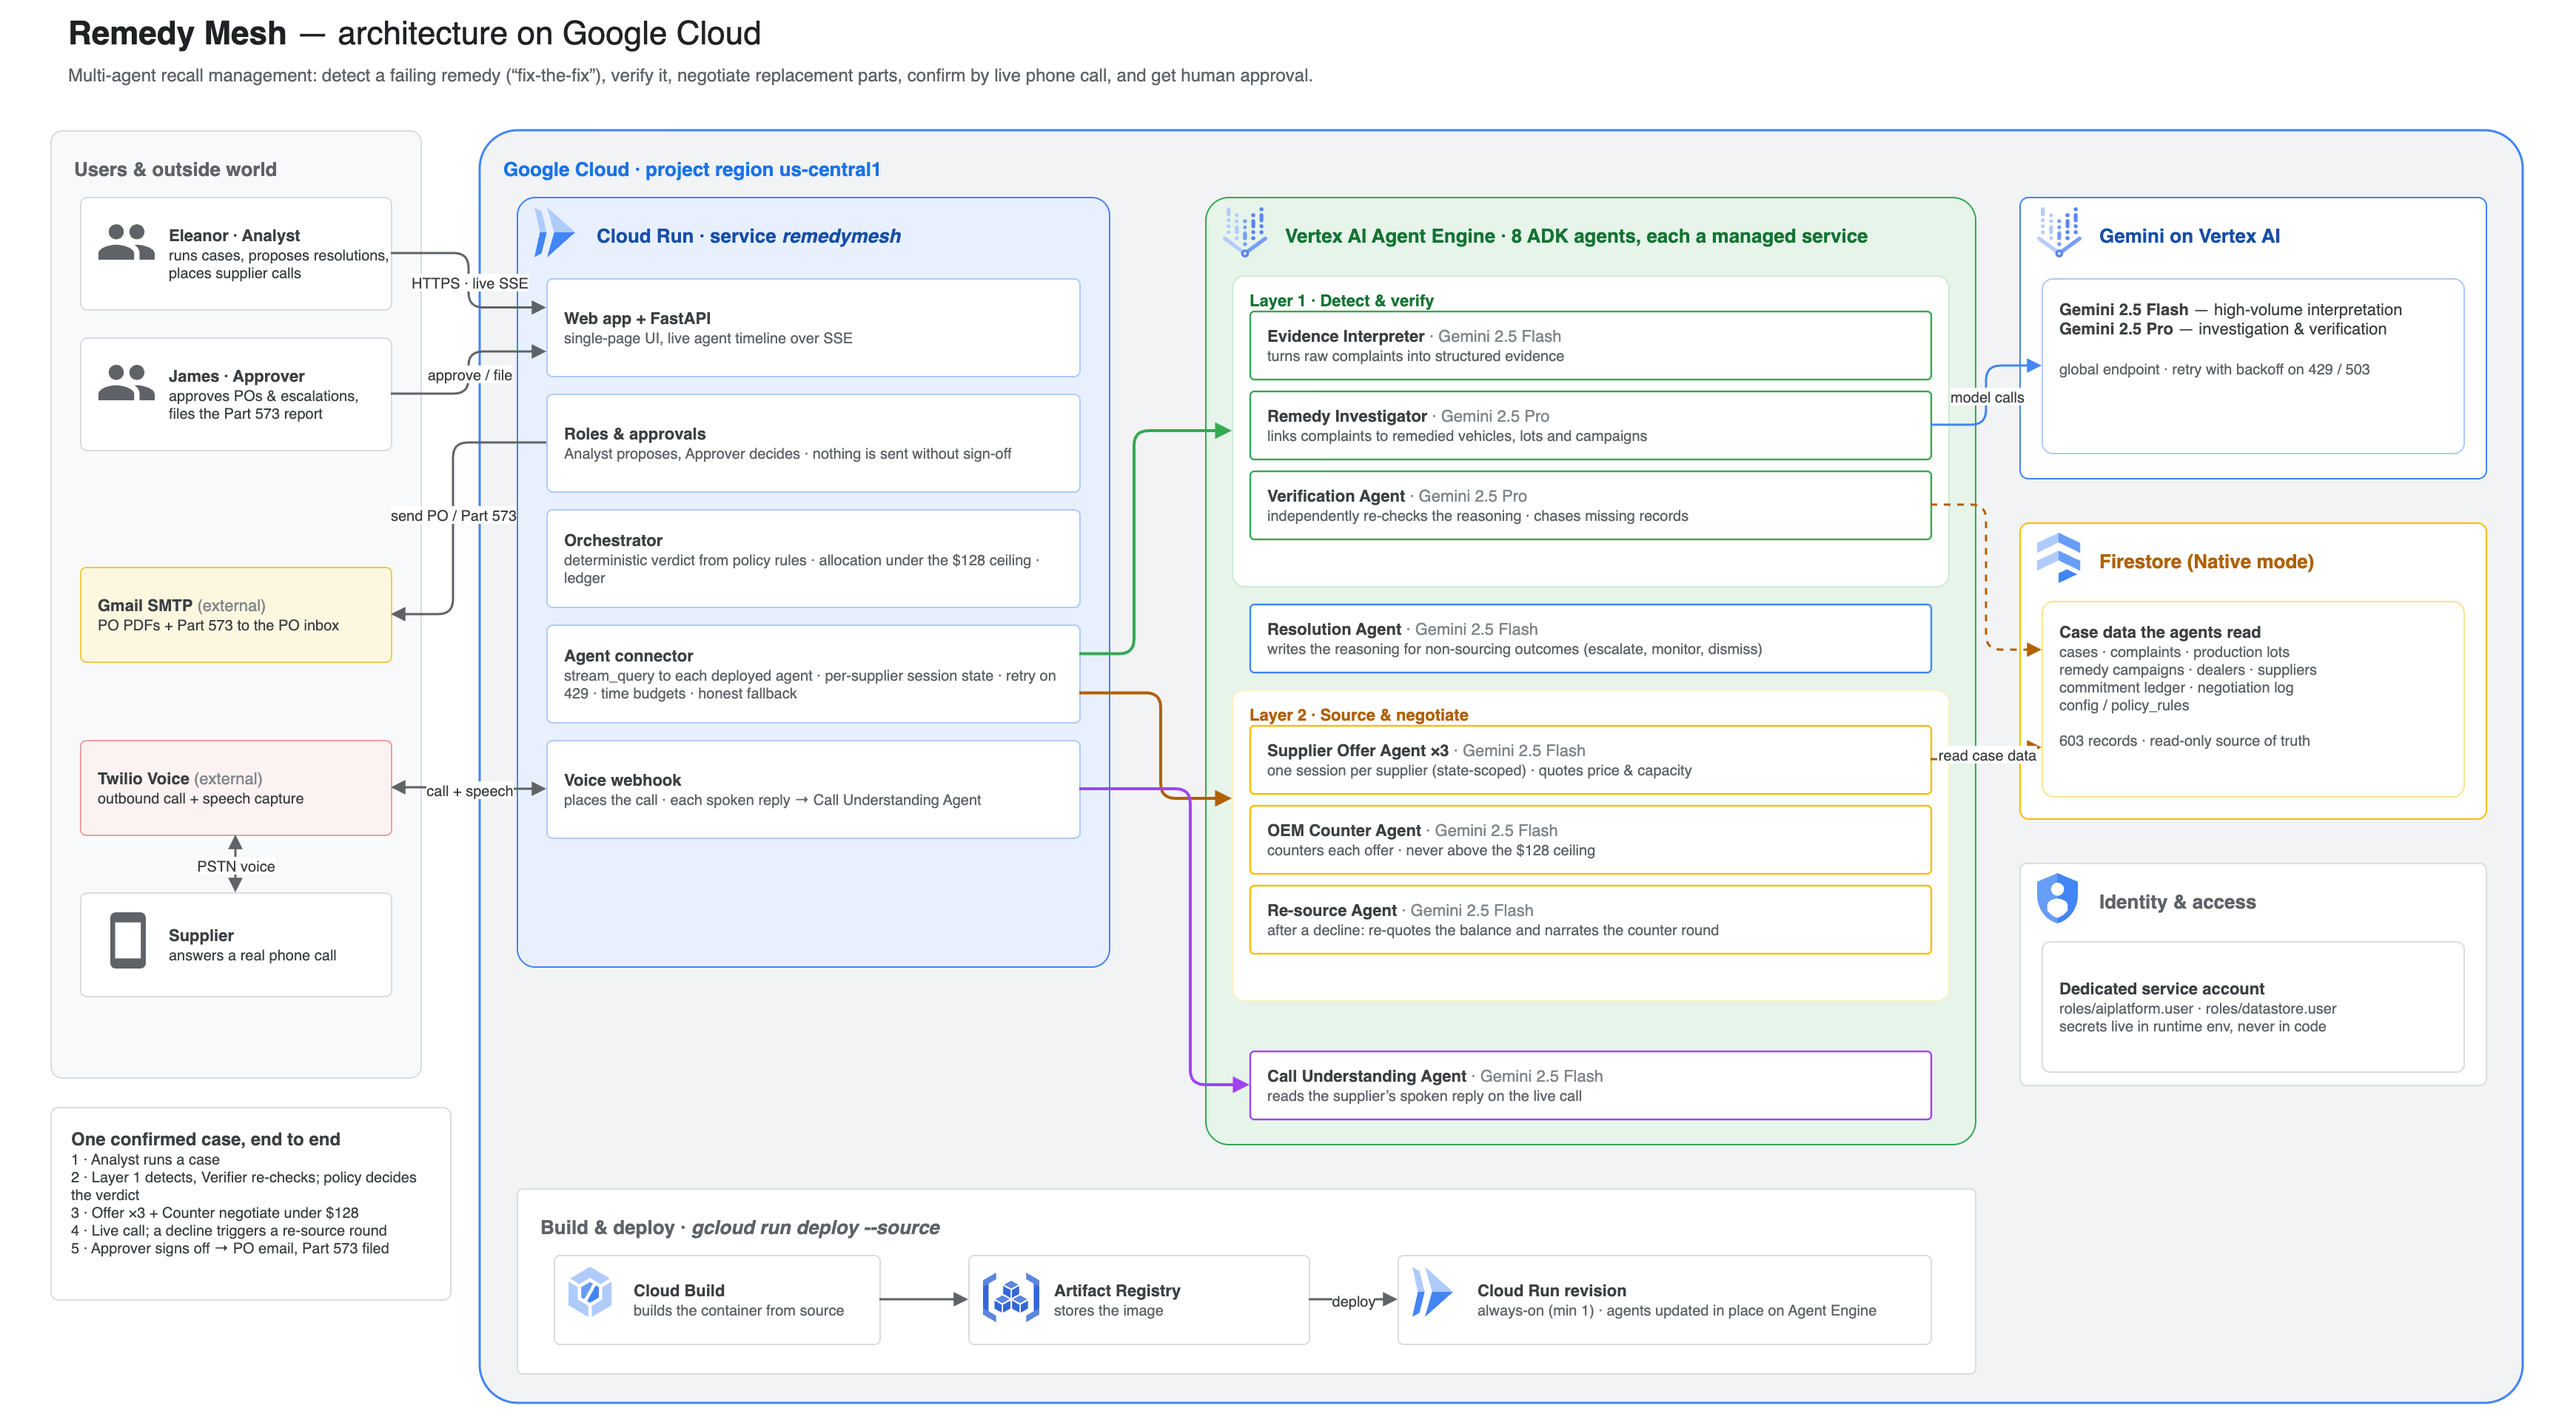
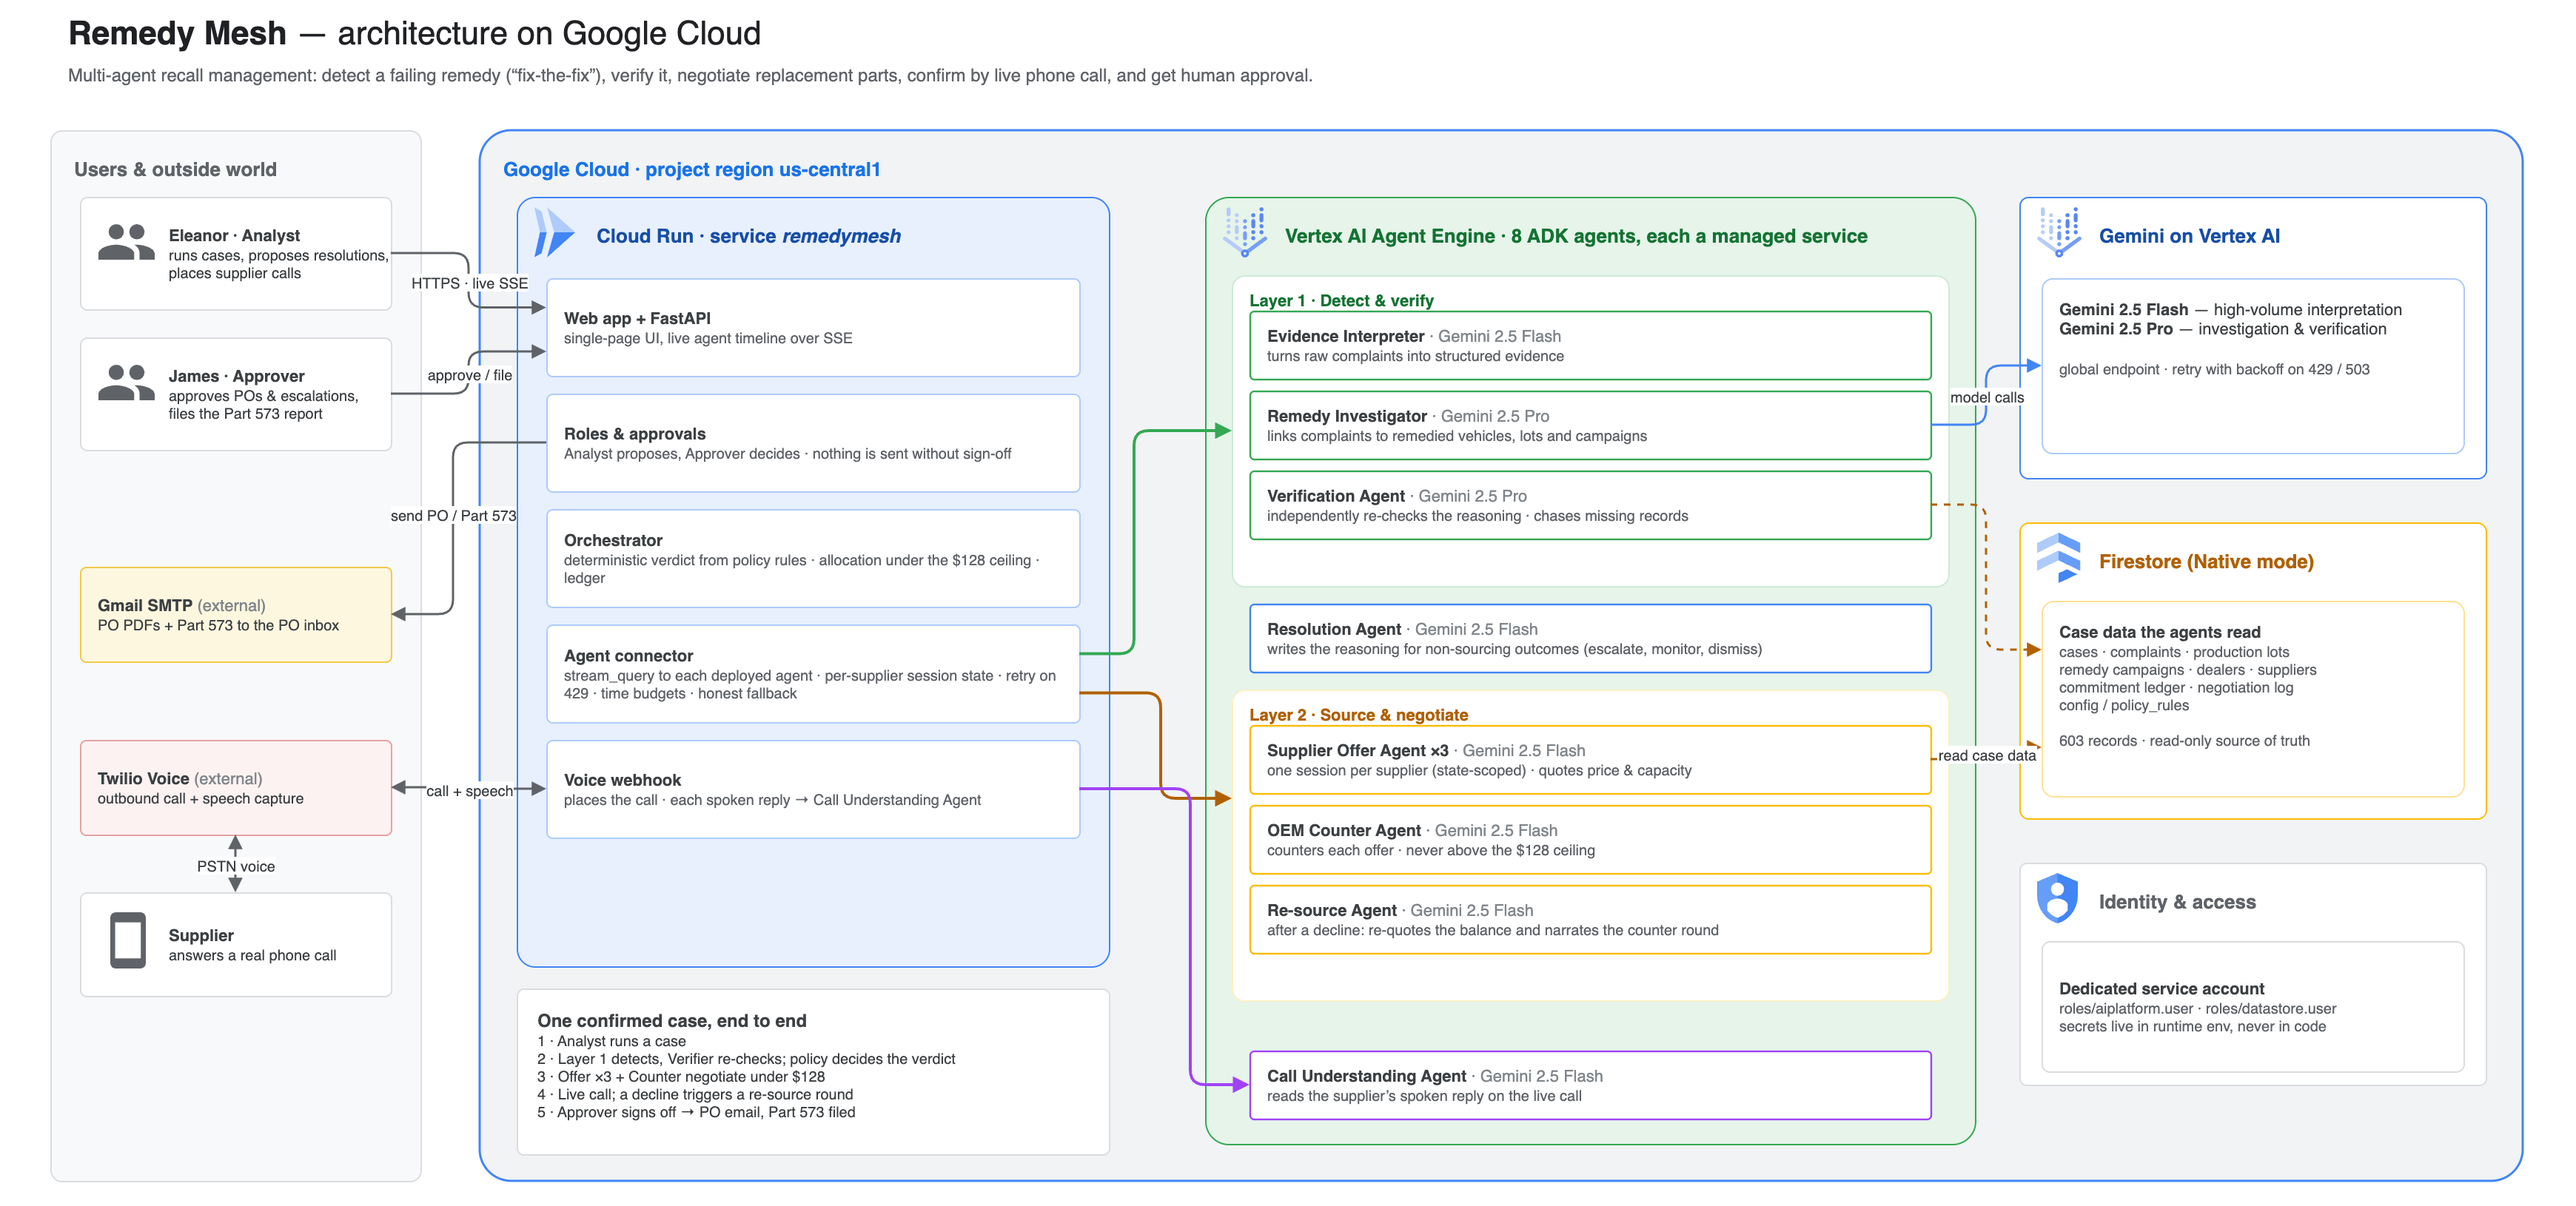
Drop the build-and-deploy strip from the detailed architecture diagram

diff --git a/HYBRID_LOG.md b/HYBRID_LOG.md
@@ -112,7 +112,7 @@ service `remedy-mesh-hybrid`, which was then replaced by `remedymesh` (see 3.16)
     deployment with a Gemini mark, Firestore as the data source, Twilio and Gmail as external
     services. For slides and the video.
   - `docs/remedy-mesh-architecture.drawio` / `remedy-mesh-architecture-gcp.png`: detailed view
-    (every Cloud Run component, all 8 agents with their models, IAM, the build and deploy path,
+    (every Cloud Run component, all 8 agents with their models, IAM,
     the five-step case flow). For the README.
   - Connections are labelled with what is really used: the Vertex AI SDK (`stream_query`). No A2A
     or MCP is claimed because neither is used.
